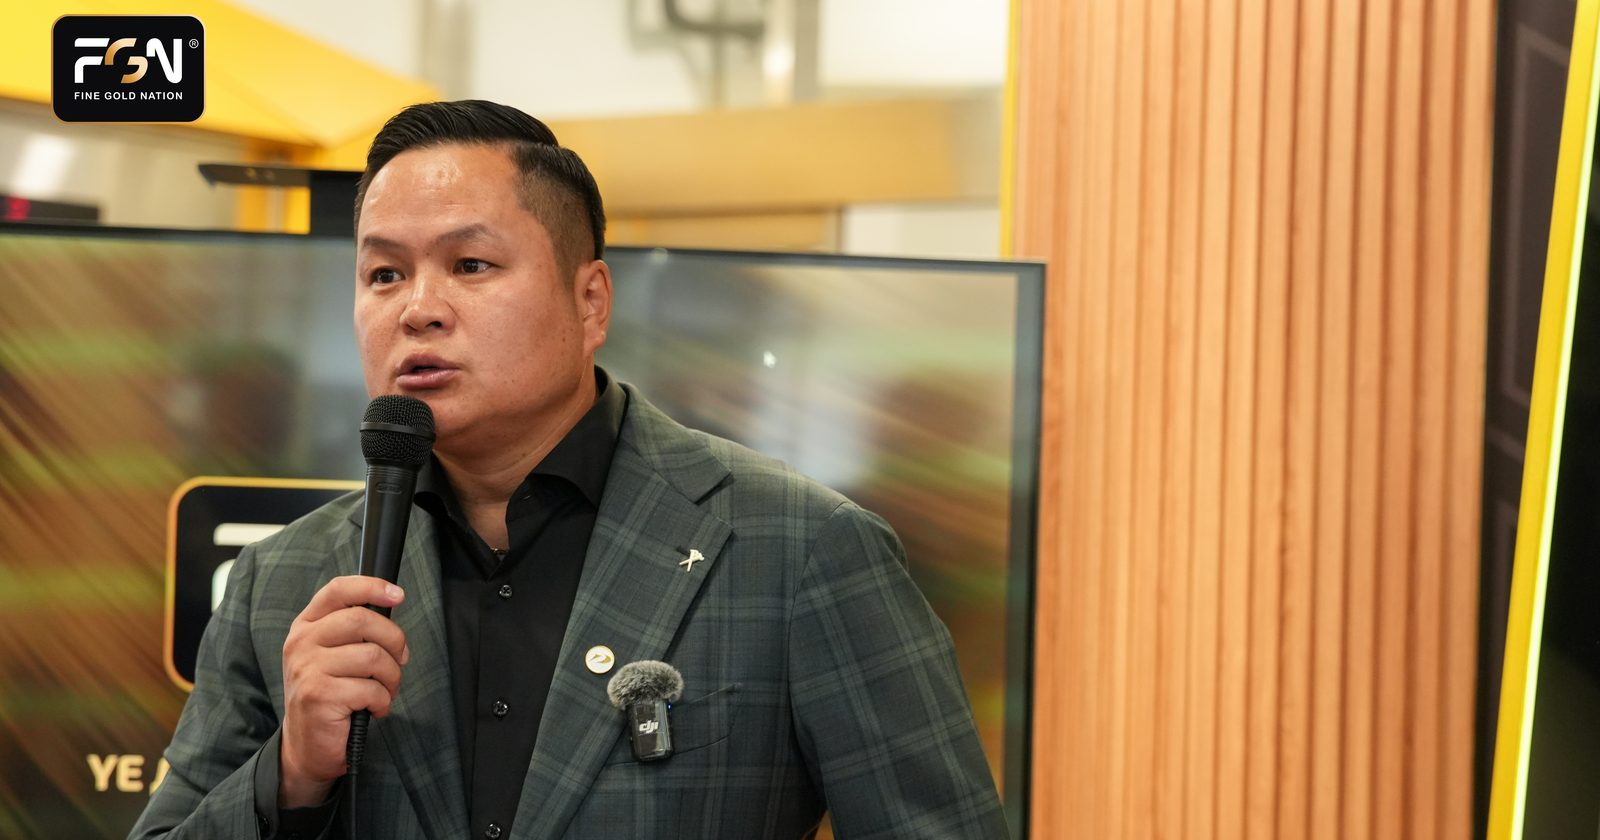
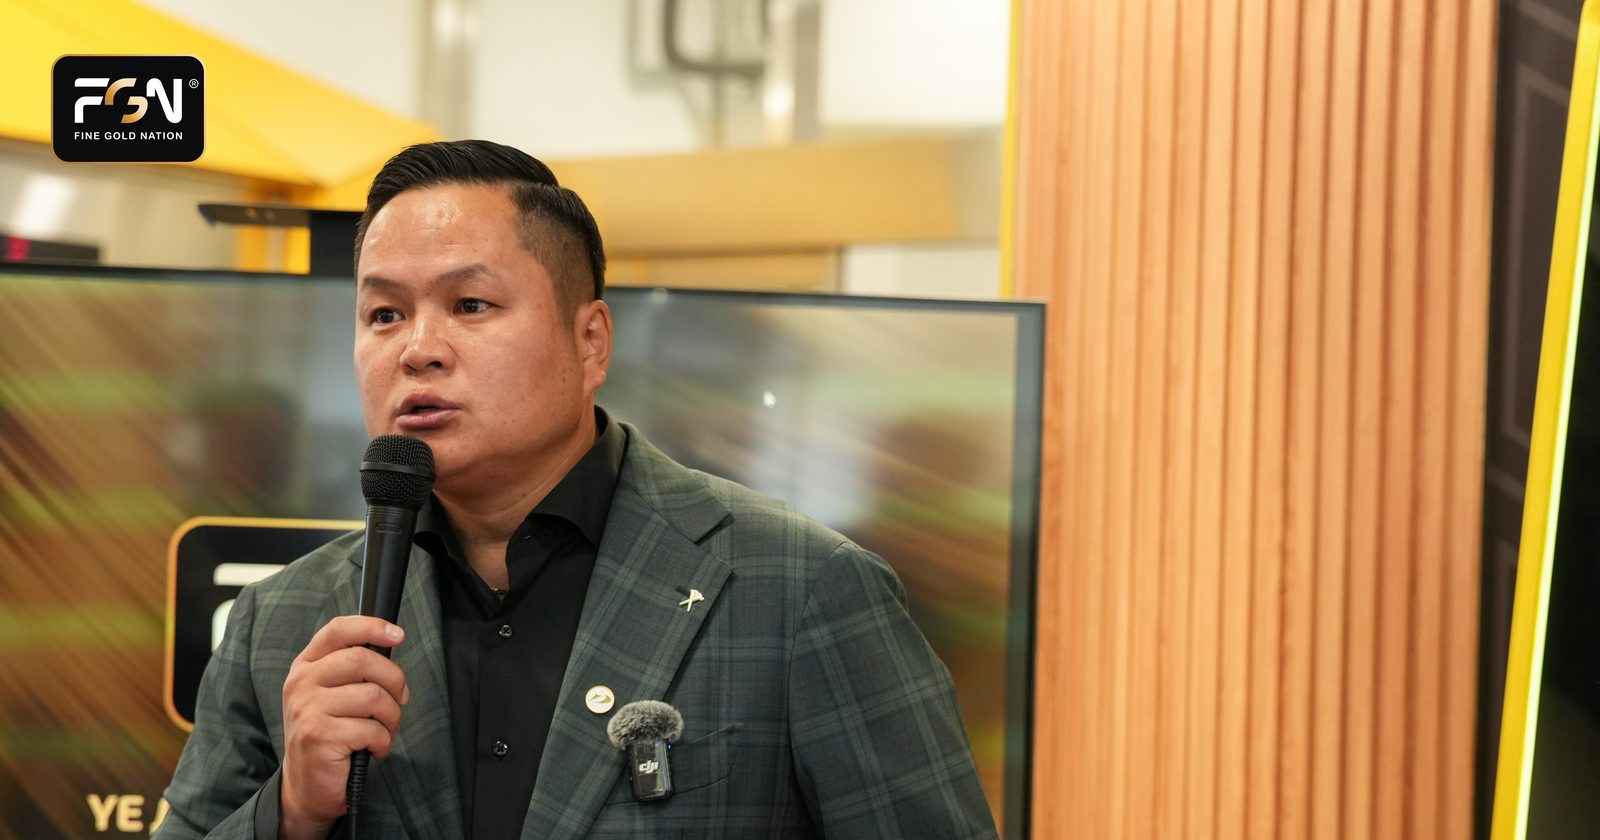
feat: photo galleries, real opening photos, top-anchored crops

diff --git a/src/index.css b/src/index.css
@@ -263,13 +263,14 @@ p {
   border-radius: 10px;
   overflow: hidden;
   cursor: pointer;
-  aspect-ratio: 4 / 3;
+  aspect-ratio: 3 / 2;
   transition: transform 0.25s ease, box-shadow 0.25s ease;
 }
 .article-gallery-item img {
   width: 100%;
   height: 100%;
   object-fit: cover;
+  object-position: center top;
   display: block;
   transition: opacity 0.25s ease;
 }

diff --git a/src/pages/NewsPage.tsx b/src/pages/NewsPage.tsx
@@ -479,7 +479,7 @@ const ArticleDetail = ({ article, onBack }: { article: NewsArticle; onBack: () =
       </div>
 
       {/* Title */}
-      <h1 className="article-title mb-10">{article.title}</h1>
+      <h1 className="article-title mb-14">{article.title}</h1>
 
       {/* Cover image */}
       {article.images.length > 0 && (
